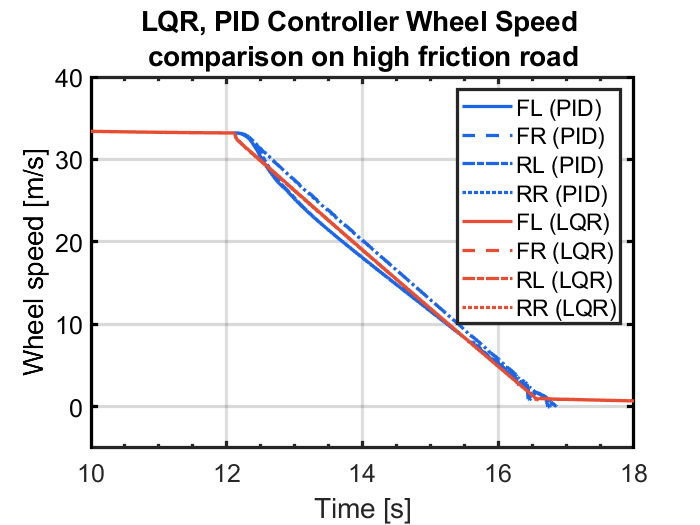
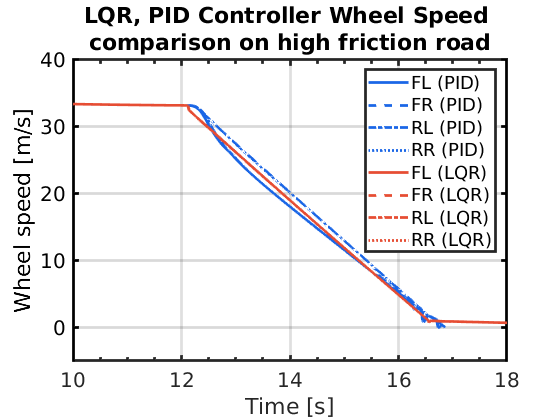
updated figures and scripts

Changed region(s): [[0.0304, 0.0, 0.9411, 0.9286], [0.425, 0.9286, 0.6071, 1.0]]

diff --git a/NIKHIL_DATA/result_comparison.m b/NIKHIL_DATA/result_comparison.m
@@ -1,0 +1,57 @@
+clear all;
+close all;
+clc;
+
+%% import data
+data = cell(1,6);
+
+files = {'WO_Controller_1mu_Straight.CSV', ...
+    'WO_Controller_Straight.CSV', ...
+    'WO_Controller_mu_split.CSV', ...
+    'PID_1mu.CSV', ...
+    'W_Controller_1mu_Straight.CSV', ...
+    'W_Controller_Straight.CSV', ...
+    'W_Controller_mu_split.CSV', ... 
+    'PID_mu_split.CSV'};
+
+for i = 1:size(files,2)
+    data{i} = importdata(files{i});
+end
+
+%% mu-comparison
+% PID_1mu
+FL_PID = data{4}.data(:,1)*0.32;
+FR_PID = data{4}.data(:,2)*0.32;
+RL_PID = data{4}.data(:,3)*0.32;
+RR_PID = data{4}.data(:,4)*0.32;
+% W_Controller_1mu_Straight
+FL_W = data{5}.data(:,1)*0.32;
+FR_W = data{5}.data(:,2)*0.32;
+RL_W = data{5}.data(:,3)*0.32;
+RR_W = data{5}.data(:,4)*0.32;
+
+figure(37);
+
+t  = data{4}.data(:,6);
+plot(t, FL_PID, '-','Color', [.1 .4 .9]);
+hold on;
+plot(t, FR_PID, '--','Color', [.1 .4 .9]);
+plot(t, RL_PID, '-.','Color', [.1 .4 .9]);
+plot(t, RR_PID, ':','Color', [.1 .4 .9]);
+t  = data{5}.data(:,6);
+plot(t, FL_W, '-','Color', [.9 .3 .2]);
+plot(t, FR_W, '--','Color', [.9 .3 .2]);
+plot(t, RL_W, '-.','Color', [.9 .3 .2]);
+plot(t, RR_W, ':','Color', [.9 .3 .2]);
+xlabel('Time [s]');
+ylabel('Wheel speed [m/s]');
+legend('FL (PID)','FR (PID)','RL (PID)','RR (PID)', 'FL (LQR)','FR (LQR)','RL (LQR)','RR (LQR)');
+hold off;
+grid on;
+axis([10 18 -5 40]);
+set(gca,'LineWidth',2,'FontSize',15, 'YColor', 'k','XMinorTick','on');
+set(findall(gca, 'Type', 'Line'),'LineWidth',2);
+title({'LQR, PID Controller Wheel Speed ';'comparison on high friction road'});
+axis([10 18 -5 40]);
+ax = gca;
+ax.XTick = 10:2:18;

diff --git a/NIKHIL_DATA/result.m b/NIKHIL_DATA/result.m
@@ -97,41 +97,3 @@ for i = 1:size(files,2)
     ax = gca;
     ax.XTick = 10:2:18;   
 end
-
-%% mu-comparison
-% PID_1mu
-FL_PID = data{4}.data(:,1)*0.32;
-FR_PID = data{4}.data(:,2)*0.32;
-RL_PID = data{4}.data(:,3)*0.32;
-RR_PID = data{4}.data(:,4)*0.32;
-% W_Controller_1mu_Straight
-FL_W = data{5}.data(:,1)*0.32;
-FR_W = data{5}.data(:,2)*0.32;
-RL_W = data{5}.data(:,3)*0.32;
-RR_W = data{5}.data(:,4)*0.32;
-
-figure(37);
-
-t  = data{4}.data(:,6);
-plot(t, FL_PID, '-','Color', [.1 .4 .9]);
-hold on;
-plot(t, FR_PID, '--','Color', [.1 .4 .9]);
-plot(t, RL_PID, '-.','Color', [.1 .4 .9]);
-plot(t, RR_PID, ':','Color', [.1 .4 .9]);
-t  = data{5}.data(:,6);
-plot(t, FL_W, '-','Color', [.9 .3 .2]);
-plot(t, FR_W, '--','Color', [.9 .3 .2]);
-plot(t, RL_W, '-.','Color', [.9 .3 .2]);
-plot(t, RR_W, ':','Color', [.9 .3 .2]);
-xlabel('Time [s]');
-ylabel('Wheel speed [m/s]');
-legend('FL (PID)','FR (PID)','RL (PID)','RR (PID)', 'FL (LQR)','FR (LQR)','RL (LQR)','RR (LQR)');
-hold off;
-grid on;
-axis([10 18 -5 40]);
-set(gca,'LineWidth',2,'FontSize',15, 'YColor', 'k','XMinorTick','on');
-set(findall(gca, 'Type', 'Line'),'LineWidth',2);
-title({'LQR, PID Controller Wheel Speed ';'comparison on high friction road'});
-axis([10 18 -5 40]);
-ax = gca;
-ax.XTick = 10:2:18;

diff --git a/NIKHIL_DATA/result_noise.m b/NIKHIL_DATA/result_noise.m
@@ -97,41 +97,3 @@ for i = 1:size(files,2)
     ax = gca;
     ax.XTick = 10:2:18;   
 end
-
-%% mu-comparison
-% PID_1mu
-FL_PID = data{4}.data(:,1)*0.32;
-FR_PID = data{4}.data(:,2)*0.32;
-RL_PID = data{4}.data(:,3)*0.32;
-RR_PID = data{4}.data(:,4)*0.32;
-% W_Controller_1mu_Straight
-FL_W = data{5}.data(:,1)*0.32;
-FR_W = data{5}.data(:,2)*0.32;
-RL_W = data{5}.data(:,3)*0.32;
-RR_W = data{5}.data(:,4)*0.32;
-
-figure(37);
-
-t  = data{4}.data(:,6);
-plot(t, FL_PID, '-','Color', [.1 .4 .9]);
-hold on;
-plot(t, FR_PID, '--','Color', [.1 .4 .9]);
-plot(t, RL_PID, '-.','Color', [.1 .4 .9]);
-plot(t, RR_PID, ':','Color', [.1 .4 .9]);
-t  = data{5}.data(:,6);
-plot(t, FL_W, '-','Color', [.9 .3 .2]);
-plot(t, FR_W, '--','Color', [.9 .3 .2]);
-plot(t, RL_W, '-.','Color', [.9 .3 .2]);
-plot(t, RR_W, ':','Color', [.9 .3 .2]);
-xlabel('Time [s]');
-ylabel('Wheel speed [m/s]');
-legend('FL (PID)','FR (PID)','RL (PID)','RR (PID)', 'FL (LQR)','FR (LQR)','RL (LQR)','RR (LQR)');
-hold off;
-grid on;
-axis([10 18 -5 40]);
-set(gca,'LineWidth',2,'FontSize',15, 'YColor', 'k','XMinorTick','on');
-set(findall(gca, 'Type', 'Line'),'LineWidth',2);
-title({'LQR, PID Controller Wheel Speed ';'comparison on high friction road'});
-axis([10 18 -5 40]);
-ax = gca;
-ax.XTick = 10:2:18;
